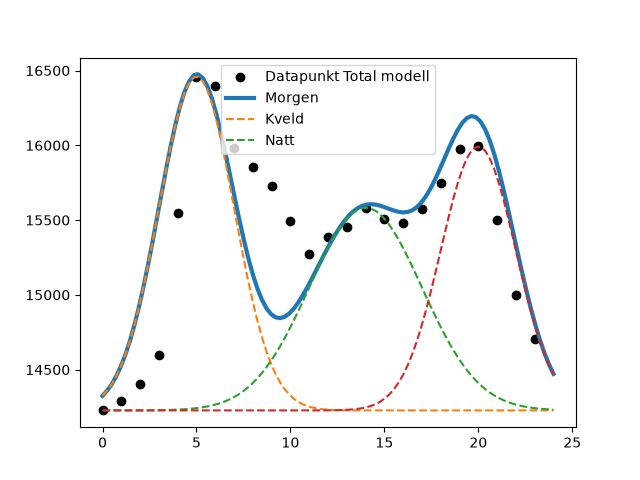
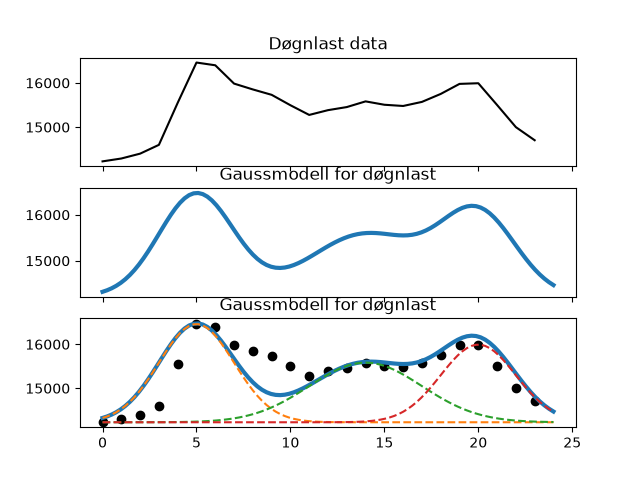
Øving 5, Siste finpuss av plotting av data

diff --git a/ovingar/Oving5/oving5.py b/ovingar/Oving5/oving5.py
@@ -26,10 +26,11 @@ for i in range(len(mu)):
     row, col = divmod(i, 2)
     ax = axs[row, col]
     for j in range(len(mu)):
-        ax.plot(t, l_0[j] + gauss_curve(t, a[j], mu[i], sigma[j]))
+        ax.plot(t, l_0[i] + gauss_curve(t, a[j], mu[i], sigma[j]))
     ax.set_title(f"mu = {mu[i]}, sigma = {sigma[i]},\n A = {a[i]}, l_0 = {l_0[i]}")
     ax.set_xlabel("t")
     ax.set_ylabel("A_i")
+    ax.set_ylim(0, 320)
 
 plt.tight_layout()
 plt.savefig("elk320/elk330/ovingar/Oving5/figurer/gauss_curve.png")
@@ -65,14 +66,28 @@ modell_natt = gauss_curve(t,
         2
 )
 modell_samla = base_load + modell_morgen + modell_kveld + modell_natt
-print(dayload["Consumption"].iloc[peaks])
-#plot in a new figure
-plt.figure()
-plt.scatter(dayload.index.hour, dayload["Consumption"], color="black")
-plt.plot(t, modell_samla, linewidth=3)
-plt.plot(t, base_load + modell_morgen, linestyle="--")
-plt.plot(t, base_load + modell_kveld, linestyle="--")
-plt.plot(t, base_load + modell_natt, linestyle="--")
-plt.legend(["Datapunkt ""Total modell", "Morgen", "Kveld", "Natt"])
+
+#print all paramater values for the models as a table
+print(f"Modell_Morgen. a: {(dayload["Consumption"].iloc[peaks[0]]-base_load).round(2)}, mu: {dayload.iloc[peaks[0]].name.hour}, sigma: {2}")
+print(f"Modell_Kveld. a: {(dayload["Consumption"].iloc[peaks[1]]-base_load).round(2)}, mu: {dayload.iloc[peaks[1]].name.hour}, sigma: {3}")
+print(f"Modell_Natt. a: {(dayload["Consumption"].iloc[peaks[2]]-base_load).round(2)}, mu: {dayload.iloc[peaks[2]].name.hour}, sigma: {2}")
+
+#plot in 3 subplots. Observed data, modelled curve, the combined
+# observed data, modelled curve, the combined
+fig, axs = plt.subplots(3, 1, sharex=True)
+
+axs[0].plot(dayload.index.hour, dayload["Consumption"], color="black")
+axs[0].set_title("Døgnlast data")
+
+axs[1].plot(t, modell_samla, linewidth=3)
+axs[1].set_title("Gaussmodell for døgnlast")
+
+axs[2].plot(t, modell_samla, linewidth=3)
+axs[2].scatter(dayload.index.hour, dayload["Consumption"], color="black")
+axs[2].plot(t, base_load + modell_morgen, linestyle="--")
+axs[2].plot(t, base_load + modell_kveld, linestyle="--")
+axs[2].plot(t, base_load + modell_natt, linestyle="--")
+#axs[2].legend(["Datapunkt ","Total modell", "Morgen", "Ettermiddag", "Kveld"])
+axs[2].set_title("Gaussmodell for døgnlast")
 plt.savefig("elk320/elk330/ovingar/Oving5/figurer/gaussmodell.png")
 plt.show()
